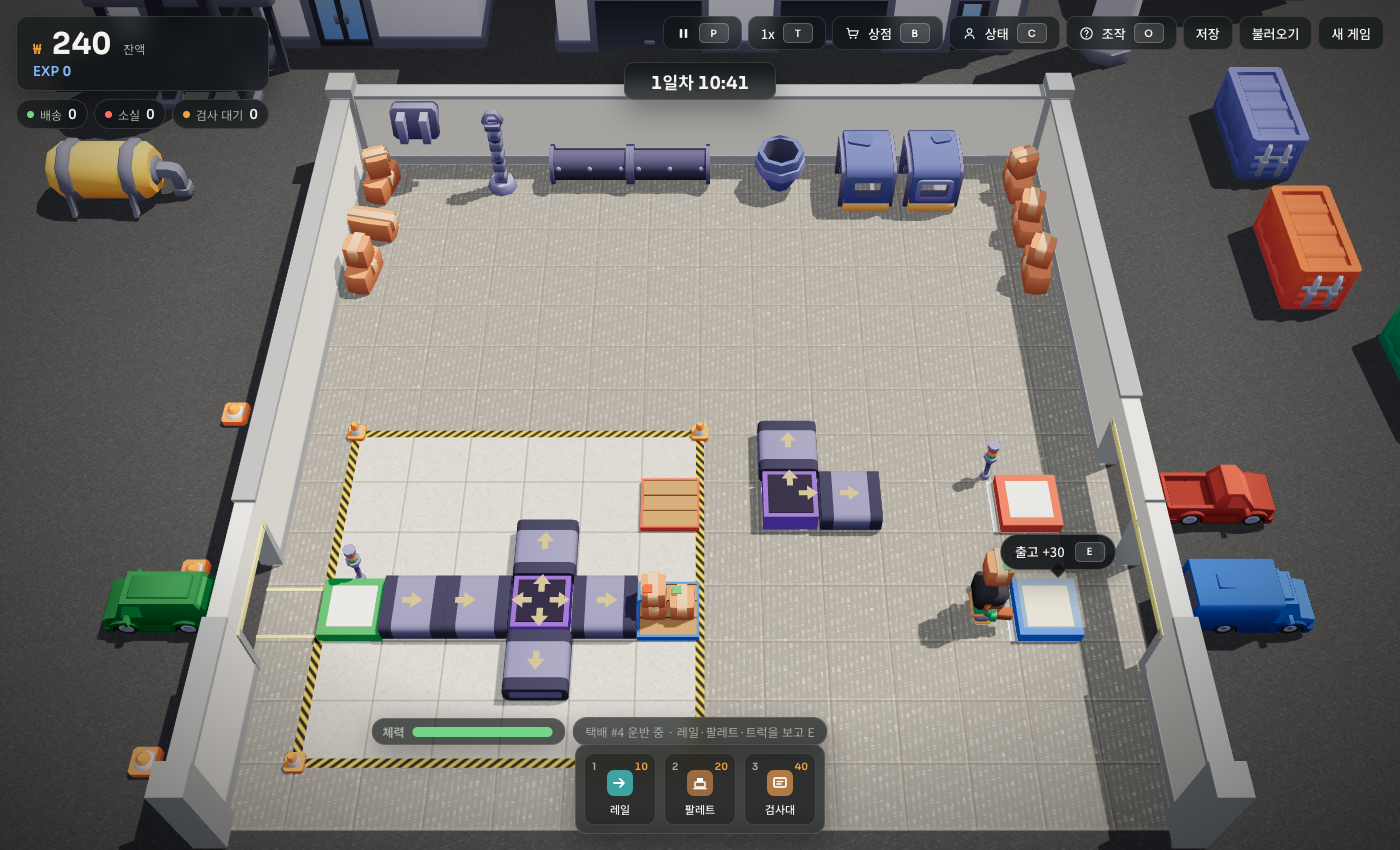
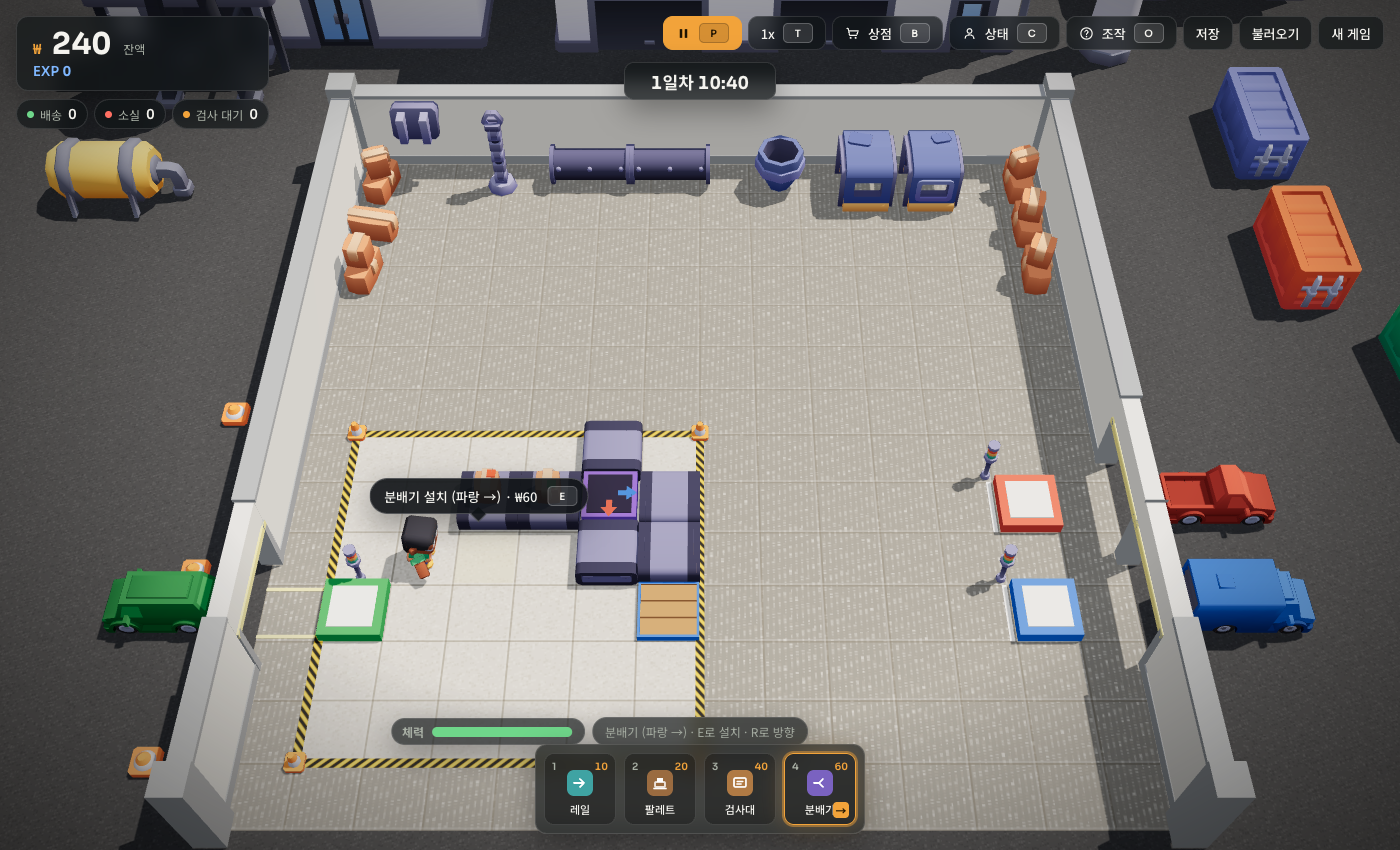
prototype: splitter becomes a sorter (spec 11.7)
Blue output = Direction (approved/uninspected), red = first connected of
right/left/back of blue (rejected). headingFor takes the package; round-robin
removed; splitterRoutes feeds blue/red chevrons; prompt, help and shop text updated.

diff --git a/docs/design/prototype/parcel-factory-3d.html b/docs/design/prototype/parcel-factory-3d.html
@@ -177,7 +177,7 @@
       <div><span class="k"><span class="key">W</span><span class="key">A</span><span class="key">S</span><span class="key">D</span></span>이동 · <span class="k"><span class="key">Space</span></span>달리기(체력 소모) · <span class="k"><span class="key">E</span></span><b>집기 · 놓기 · 설치 · 검사</b> · <span class="k"><span class="key">X</span></span>해체</div>
       <div><span class="k"><span class="key">1</span>~<span class="key">6</span></span>도구 선택 · <span class="k"><span class="key">R</span></span>방향·팔레트 색 · <span class="k"><span class="key">Q</span></span>빈손 · <span class="k"><span class="key">Esc</span></span>닫기 · <span class="k"><span class="key">C</span></span>상태창(EXP 강화)</div>
       <div>레일 끝 <b>팔레트</b>에 택배가 최대 6개 쌓입니다. 팔레트에서 집어 동쪽 벽의 트럭까지 나르세요 — <b>정상은 파랑 출고 트럭</b>, <b>불량(거부)은 빨강 반품 트럭</b>.</div>
-      <div><b>분배기</b>: 연결된 출구로 번갈아 보냅니다</div>
+      <div><b>분배기</b>: 파란 화살표 = 승인 택배, 빨간 화살표 = 거부 택배 (<span class="key">R</span>로 파란 출구 방향)</div>
       <div>택배는 검사대(3)에서 E로 검사한 뒤 출고/반품하세요. 검사 없이 트럭에 넣으면 벌점입니다.</div>
       <div>검사대 위 택배는 검사 전까지 멈춥니다. 잠긴 구역도 걸어 다닐 수 있지만 설치는 산 부지에만 됩니다. 12×12까지 넓히면 레일을 트럭에 바로 붙일 수 있습니다.</div>
       <div>09:00~18:00 근무 · 12시 점심(입고 정지, 체력 회복) · 18시 퇴근 요약 · 체력이 0이면 집을 수 없음</div>
@@ -279,9 +279,9 @@
     { id: 'plot2', name: '부지 확장 2', sub: '12×12로 넓힙니다 · 확장 1 필요', price: 500, plot: 12, req: 'plot1' },
     { id: 'railS', name: '레일 ↓', sub: '남쪽으로 흐르는 레일', price: 50, tool: 'conveyor:S' }, { id: 'railW', name: '레일 ←', sub: '서쪽으로 흐르는 레일', price: 50, tool: 'conveyor:W' }, { id: 'railN', name: '레일 ↑', sub: '북쪽으로 흐르는 레일', price: 50, tool: 'conveyor:N' },
     { id: 'fastE', name: '고속 레일 →', sub: '2배 속도', price: 100, tool: 'fast:E' }, { id: 'fastS', name: '고속 레일 ↓', sub: '2배 속도', price: 100, tool: 'fast:S' }, { id: 'fastW', name: '고속 레일 ←', sub: '2배 속도', price: 100, tool: 'fast:W' }, { id: 'fastN', name: '고속 레일 ↑', sub: '2배 속도', price: 100, tool: 'fast:N' },
-    { id: 'splitter', name: '분배기', sub: '연결된 출구로 번갈아 보냅니다 · 4방향', price: 300, splitter: true }, { id: 'scanner', name: '자동 검사기', sub: '지나가면 바로 판정 · 4방향', price: 250, scanner: true },
+    { id: 'splitter', name: '분배기', sub: '검사 결과로 분류 · 파랑/빨강 출구', price: 300, splitter: true }, { id: 'scanner', name: '자동 검사기', sub: '지나가면 바로 판정 · 4방향', price: 250, scanner: true },
   ];
-  function cell(type, dir) { return { type, dir: dir || 'E', demolishing: false, remain: 0, idx: 0, occ: -1 }; }
+  function cell(type, dir) { return { type, dir: dir || 'E', demolishing: false, remain: 0, occ: -1 }; }
   function palletCell(kind) { const c = cell('pallet', kind === 'red' ? 'W' : 'E'); c.kind = kind; c.pile = []; return c; } // 더미: 맨 위 = 배열 끝
   function newGame() {
     const cells = [];
@@ -308,15 +308,20 @@
   const UI = { tool: null, slot: -1, lastDir: {}, pending: null, inspect: null, running: false, toastUntil: 0, dirty: new Set(), rebuildAll: true, saved: null, fx: [] };
 
   const accepts = (x, y) => { if (!inBounds(x, y)) return false; const n = S.cells[y][x]; return (isTrack(n) && n.type !== 'inlet') || n.type === 'pallet' || isDock(n.type); }; // 택배를 받는 칸 (입고구는 받지 않는다)
-  function splitterOutputs(x, y, incoming) { // 분배기 출구 후보: 분배기 방향 기준 왼쪽 → 앞 → 오른쪽 → 뒤 (스펙 11.6). incoming을 주면 들어온 쪽(opp(incoming))은 제외
+  function splitterOutputs(x, y, incoming) { // 연결된 출구: 분배기 방향 기준 왼쪽 → 앞 → 오른쪽 → 뒤 (스펙 11.6·11.7). incoming을 주면 들어온 쪽(opp(incoming))은 제외
     const c = S.cells[y][x];
     return [turnL(c.dir), c.dir, turnR(c.dir), opp(c.dir)].filter(d => d !== (incoming ? opp(incoming) : null) && accepts(x + DX[d], y + DY[d]));
   }
-  function headingFor(c, incoming, x, y) {
+  function routesOf(c, conn) { // 파란 출구 = c.dir, 빨간 출구 = 파란 기준 오른쪽 → 왼쪽 → 뒤 중 연결된 첫 번째 (스펙 11.7)
+    const blue = c.dir, red = [turnR(blue), turnL(blue), opp(blue)].find(d => conn.includes(d)) || null;
+    return { blue, red, blueConnected: conn.includes(blue) };
+  }
+  const splitterRoutes = (x, y) => routesOf(S.cells[y][x], splitterOutputs(x, y)); // 뷰용 (들어온 방향 제외 없음)
+  function headingFor(c, incoming, x, y, p) { // 분배기: 검사 후 거부 → 빨강(없으면 파랑), 그 외 → 파랑. 파랑이 연결돼 있지 않으면 c.dir 직진
     if (c.type !== 'splitter') return c.dir;
-    const cands = splitterOutputs(x, y, incoming);
-    if (!cands.length) return c.dir;
-    const h = cands[(c.idx || 0) % cands.length]; c.idx = (c.idx || 0) + 1; return h;
+    const r = routesOf(c, splitterOutputs(x, y, incoming));
+    if (p && p.inspected && p.rejected && r.red) return r.red;
+    return r.blueConnected ? r.blue : c.dir;
   }
   function makeLabel(bad) {
     const dests = ['서울', '부산', '대구', '광주', '인천'], methods = ['일반', '익일', '당일'];
@@ -326,8 +331,9 @@
   function spawn(x, y) {
     const c = S.cells[y][x];
     if (!isTrack(c) || c.occ >= 0 || c.demolishing) return false;
-    const h = headingFor(c, c.dir, x, y), bad = Math.random() < 0.3;
-    const p = { id: S.nextId++, x, y, progress: 0, heading: h, entry: h, bad, inspected: false, rejected: false, label: makeLabel(bad) };
+    const bad = Math.random() < 0.3;
+    const p = { id: S.nextId++, x, y, progress: 0, heading: 'E', entry: 'E', bad, inspected: false, rejected: false, label: makeLabel(bad) };
+    p.heading = p.entry = headingFor(c, c.dir, x, y, p);
     c.occ = p.id; S.packages.push(p); return true;
   }
   // 점수 규칙 한 곳: deliver()와 토스트·팝업이 쓴다 (스펙 3.3, 9.3)
@@ -395,7 +401,7 @@
       }
       if (!isTrack(next) || next.type === 'inlet') { remove(i, false); i--; toast('택배가 레일 밖으로 떨어졌습니다', 'bad'); continue; }
       if (next.occ >= 0 || next.demolishing) continue;
-      c.occ = -1; next.occ = p.id; p.x = nx; p.y = ny; p.progress = 0; p.entry = p.heading; p.heading = headingFor(next, p.heading, nx, ny);
+      c.occ = -1; next.occ = p.id; p.x = nx; p.y = ny; p.progress = 0; p.entry = p.heading; p.heading = headingFor(next, p.heading, nx, ny, p);
       if (next.type === 'scanner' && !p.inspected) { p.inspected = true; p.rejected = p.bad; noteInspected(); }
     }
     for (let y = 0; y < 12; y++) for (let x = 0; x < 12; x++) {
@@ -458,7 +464,7 @@
     const fc = inBounds(f.x, f.y) ? S.cells[f.y][f.x] : null;
     switch (r) {
       case 'deliver': deliver(w.carrying, fc.type, f.x, f.y); w.carrying = null; break;
-      case 'put': { const p = w.carrying; p.x = f.x; p.y = f.y; p.progress = 0; p.heading = headingFor(fc, fc.dir, f.x, f.y); p.entry = p.heading; fc.occ = p.id; S.packages.push(p); w.carrying = null; if (fc.type === 'scanner' && !p.inspected) { p.inspected = true; p.rejected = p.bad; noteInspected(); } break; }
+      case 'put': { const p = w.carrying; p.x = f.x; p.y = f.y; p.progress = 0; p.heading = headingFor(fc, fc.dir, f.x, f.y, p); p.entry = p.heading; fc.occ = p.id; S.packages.push(p); w.carrying = null; if (fc.type === 'scanner' && !p.inspected) { p.inspected = true; p.rejected = p.bad; noteInspected(); } break; }
       case 'inspect': UI.inspect = S.packages[packageAt(f.x, f.y)]; showInspect(); break;
       case 'pick': { const pi = packageAt(f.x, f.y); const p = S.packages[pi]; S.packages.splice(pi, 1); fc.occ = -1; w.carrying = p; break; }
       case 'palletpick': w.carrying = fc.pile.pop(); break;
@@ -525,7 +531,7 @@
     const slots = availableSlots(); if (i < 0 || i >= slots.length) return;
     if (UI.slot === i) { clearTool(); return; }
     const type = slots[i], dirs = ownedDirs(type);
-    const dir = dirs.includes(UI.lastDir[type]) ? UI.lastDir[type] : dirs[0];
+    const dir = dirs.includes(UI.lastDir[type]) ? UI.lastDir[type] : type === 'splitter' ? 'E' : dirs[0]; // 분배기는 파랑 → (동쪽)부터
     UI.slot = i; UI.tool = { type, dir }; renderHotbar();
   }
   function clearTool() { UI.slot = -1; UI.tool = null; renderHotbar(); }
@@ -554,7 +560,7 @@
       const b = document.createElement('button'); b.className = 'slot' + (on ? ' on' : '');
       const dirs = ownedDirs(type);
       b.innerHTML = '<span class="k">' + (i + 1) + '</span><span class="c">' + COST[type] + '</span><span class="ico" style="background:' + SW[type] + '">' + ICONS[type] + '</span><span>' + NAMES[type] + '</span><span class="d">' + (on ? dirLabel(type, UI.tool.dir) : (dirs.length > 1 ? 'R' : dirLabel(type, dirs[0]))) + '</span>';
-      b.title = NAMES[type] + ' · ' + (type === 'pallet' ? 'R로 파랑/빨강 전환' : dirs.length > 1 ? 'R로 방향 전환' : '방향 ' + ARROWS[dirs[0]]);
+      b.title = NAMES[type] + ' · ' + (type === 'pallet' ? 'R로 파랑/빨강 전환' : type === 'splitter' ? 'R로 파란 출구 방향 전환' : dirs.length > 1 ? 'R로 방향 전환' : '방향 ' + ARROWS[dirs[0]]);
       b.addEventListener('click', () => selectSlot(i)); bar.appendChild(b);
     });
   }
@@ -655,9 +661,9 @@
   function shadowify(obj) { obj.traverse(o => { if (o.isMesh) { o.castShadow = true; o.receiveShadow = true; if (o.material && o.material.isMeshBasicMaterial) { const b = o.material, c = PALETTE[b.name]; o.material = new THREE.MeshStandardMaterial({ color: c !== undefined ? c : b.color, map: b.map, vertexColors: c !== undefined ? false : b.vertexColors, roughness: 0.95, metalness: 0 }); } if (o.material && o.material.map) o.material.map.encoding = THREE.sRGBEncoding; } }); return obj; }
   function make(key, scale, yaw) { const m = models[key]; const g = m ? m.clone(true) : fallback(); g.scale.setScalar(scale || 1); g.rotation.y = yaw || 0; return g; }
   let chevronGeo = null;
-  function chevron() { // 벨트 위 흐름 표시: +z를 가리키는 납작한 화살표
+  function chevron(col, dim) { // 벨트 위 흐름 표시: +z를 가리키는 납작한 화살표. col을 주면 그 색의 발광 화살표(dim = 연결 안 됨, 40% 투명)
     if (!chevronGeo) { const sh = new THREE.Shape(); sh.moveTo(0, 0.16); sh.lineTo(0.14, -0.02); sh.lineTo(0.05, -0.02); sh.lineTo(0.05, -0.16); sh.lineTo(-0.05, -0.16); sh.lineTo(-0.05, -0.02); sh.lineTo(-0.14, -0.02); sh.closePath(); chevronGeo = new THREE.ShapeGeometry(sh); chevronGeo.rotateX(-Math.PI / 2); chevronGeo.scale(1, 1, -1); }
-    const m = new THREE.Mesh(chevronGeo, lit(0xffd36a, { emissive: 0xffb84a, emissiveIntensity: 0.5, roughness: 0.6, side: THREE.DoubleSide })); m.castShadow = false; return m;
+    const m = new THREE.Mesh(chevronGeo, col ? lit(srgb(col), { emissive: srgb(col), emissiveIntensity: dim ? 0.5 : 1.0, roughness: 0.6, side: THREE.DoubleSide, transparent: !!dim, opacity: dim ? 0.4 : 1 }) : lit(0xffd36a, { emissive: 0xffb84a, emissiveIntensity: 0.5, roughness: 0.6, side: THREE.DoubleSide })); m.castShadow = false; return m;
   }
   function fallback() { const g = new THREE.Mesh(new THREE.BoxGeometry(0.8, 0.5, 0.8), lit(0x888888)); g.position.y = 0.25; g.castShadow = true; return g; }
   function box(w, h, d, m, x, y, z) { const g = new THREE.Mesh(new THREE.BoxGeometry(w, h, d), m); g.position.set(x, y, z); g.castShadow = true; g.receiveShadow = true; return g; }
@@ -776,8 +782,10 @@
       if (c.type === 'scanner') { const sc = make('scanner-low', 0.58, yaw + Math.PI / 2); sc.position.y = 0.02; g.add(sc); const laser = box(0.8, 0.5, 0.02, new THREE.MeshBasicMaterial({ color: 0xff3b3b, transparent: true, opacity: 0.35 }), 0, 0.6, 0); laser.rotation.y = yaw; laser.castShadow = false; g.add(laser); }
     } else if (c.type === 'splitter') {
       g.add(box(0.9, 0.4, 0.9, splitterHub, 0, 0.2, 0)); g.add(box(0.74, 0.02, 0.74, splitterPlate, 0, 0.41, 0));
-      for (const d of splitterOutputs(x, y)) { // 연결된 출구마다 바깥을 향한 고정 화살표 (이웃이 바뀌면 다시 그린다)
-        const pivot = new THREE.Group(); pivot.rotation.y = yawOf(d); pivot.position.set(-DX[d] * 0.3, 0.435, DY[d] * 0.3); pivot.add(chevron()); g.add(pivot);
+      const rt = splitterRoutes(x, y); // 파란 출구(연결 안 되면 흐리게) + 빨간 출구(있을 때만). 이웃이 바뀌면 다시 그린다
+      for (const [d, col, dim] of [[rt.blue, 0x3D7BE0, !rt.blueConnected], [rt.red, 0xD95A4A, false]]) {
+        if (!d) continue;
+        const pivot = new THREE.Group(); pivot.rotation.y = yawOf(d); pivot.position.set(-DX[d] * 0.3, 0.435, DY[d] * 0.3); pivot.add(chevron(col, dim)); g.add(pivot);
       }
     } else if (c.type === 'table') {
       g.add(box(0.96, 0.08, 0.96, concreteMat, 0, 0.08, 0)); const t = make('screen-panel-flat', 0.8, yaw); g.add(t);
@@ -892,7 +900,7 @@
     cursor.visible = !!fc;
     if (cursor.visible) { const h = fc.type === 'pallet' ? 0.13 + Math.ceil(fc.pile.length / 2) * 0.4 : (isBuilding(fc) || isDock(fc.type) || fc.type === 'inlet') ? surface(fc.type) : 0; cursor.position.set(W(f.x), 0.03 + h, Z(f.y)); cursor.material.opacity = 0.32 + 0.12 * Math.sin(now / 170); }
     const r = preview(); let label = null;
-    if (r === 'pick') label = '집기'; else if (r === 'palletpick') label = '집기 (' + fc.pile.length + ')'; else if (r === 'palletput') label = '놓기'; else if (r === 'palletfull') label = '가득 참'; else if (r === 'put') label = '놓기'; else if (r === 'deliver') label = promptLabel(S.worker.carrying, fc.type); else if (r === 'inspect') label = '검사'; else if (r === 'exhausted') label = '집기 (지침)'; else if (r === 'place' || r === 'nomoney') { const nm = UI.tool.type === 'pallet' ? KIND_LABEL[KIND_OF_DIR[UI.tool.dir]] + ' 팔레트' : NAMES[UI.tool.type]; label = nm + ' 설치 · ₩' + COST[UI.tool.type] + (r === 'nomoney' ? ' (잔액 부족)' : ''); }
+    if (r === 'pick') label = '집기'; else if (r === 'palletpick') label = '집기 (' + fc.pile.length + ')'; else if (r === 'palletput') label = '놓기'; else if (r === 'palletfull') label = '가득 참'; else if (r === 'put') label = '놓기'; else if (r === 'deliver') label = promptLabel(S.worker.carrying, fc.type); else if (r === 'inspect') label = '검사'; else if (r === 'exhausted') label = '집기 (지침)'; else if (r === 'place' || r === 'nomoney') { const tt = UI.tool.type, nm = tt === 'pallet' ? KIND_LABEL[KIND_OF_DIR[UI.tool.dir]] + ' 팔레트' : NAMES[tt]; label = nm + ' 설치' + (tt === 'splitter' ? ' (파랑 ' + ARROWS[UI.tool.dir] + ')' : '') + ' · ₩' + COST[tt] + (r === 'nomoney' ? ' (잔액 부족)' : ''); }
     const pr = $('prompt'); pr.hidden = !label; pr.classList.toggle('warn', r === 'nomoney' || r === 'exhausted');
     if (label) { $('promptText').textContent = label; tmpV.set(W(f.x), 0.95 + (fc && fc.type === 'pallet' ? Math.ceil(fc.pile.length / 2) * 0.4 : fc && isBuilding(fc) ? 0.2 : 0), Z(f.y)).project(camera); pr.style.left = ((tmpV.x + 1) / 2 * canvas.clientWidth) + 'px'; pr.style.top = ((1 - tmpV.y) / 2 * canvas.clientHeight - 14) + 'px'; }
     for (let y = 0; y < 12; y++) for (let x = 0; x < 12; x++) { const c = S.cells[y][x], key = x + ',' + y; let bar = demoBars.get(key); if (c.demolishing) { if (!bar) { bar = box(0.8, 0.05, 0.12, lit(0xffd36a, { emissive: 0xffb84a, emissiveIntensity: 0.8 }), W(x), 1.1, Z(y)); bar.castShadow = false; scene.add(bar); demoBars.set(key, bar); } bar.scale.x = Math.max(0.02, 1 - c.remain / 2); } else if (bar) { scene.remove(bar); demoBars.delete(key); } }
@@ -905,7 +913,7 @@
     { const ph = phaseAt(S.minute), mx = maxStamina(), st = Math.max(0, Math.min(mx, w.stamina)) / mx * 100; $('clockText').textContent = S.day + '일차 ' + timeText(S.minute);
       const bd = $('phaseBadge'); bd.hidden = ph === 'working'; bd.textContent = ph === 'lunch' ? '점심시간' : '퇴근'; bd.classList.toggle('closed', ph === 'closed');
       const fl = $('staminaFill'); fl.style.width = st + '%'; fl.className = 'fill' + (st > 50 ? '' : st > 20 ? ' mid' : ' low') + (st < 20 ? ' pulse' : ''); }
-    $('workerText').textContent = (UI.running ? '달리는 중 · ' : '') + (w.carrying ? ('택배 #' + w.carrying.id + ' 운반 중 · 레일·팔레트·트럭을 보고 E') : (UI.tool ? NAMES[UI.tool.type] + ' ' + dirLabel(UI.tool.type, UI.tool.dir) + ' · E로 설치 · R로 ' + (UI.tool.type === 'pallet' ? '색' : '방향') : '빈손 · 1~6으로 도구를 고르세요'));
+    $('workerText').textContent = (UI.running ? '달리는 중 · ' : '') + (w.carrying ? ('택배 #' + w.carrying.id + ' 운반 중 · 레일·팔레트·트럭을 보고 E') : (UI.tool ? NAMES[UI.tool.type] + (UI.tool.type === 'splitter' ? ' (파랑 ' + dirLabel('splitter', UI.tool.dir) + ')' : ' ' + dirLabel(UI.tool.type, UI.tool.dir)) + ' · E로 설치 · R로 ' + (UI.tool.type === 'pallet' ? '색' : '방향') : '빈손 · 1~6으로 도구를 고르세요'));
     renderer.render(scene, camera);
   }
   loadAll(() => { resize(); frameLot(true); buildStatic(); buildWorker(); renderHotbar(); renderShop(); if (location.hash === '#lunch' || location.hash === '#status') selectSlot(0); if (location.hash === '#status') togglePanel('statusPanel'); UI.rebuildAll = true; $('loading').hidden = true; requestAnimationFrame(frame); });
